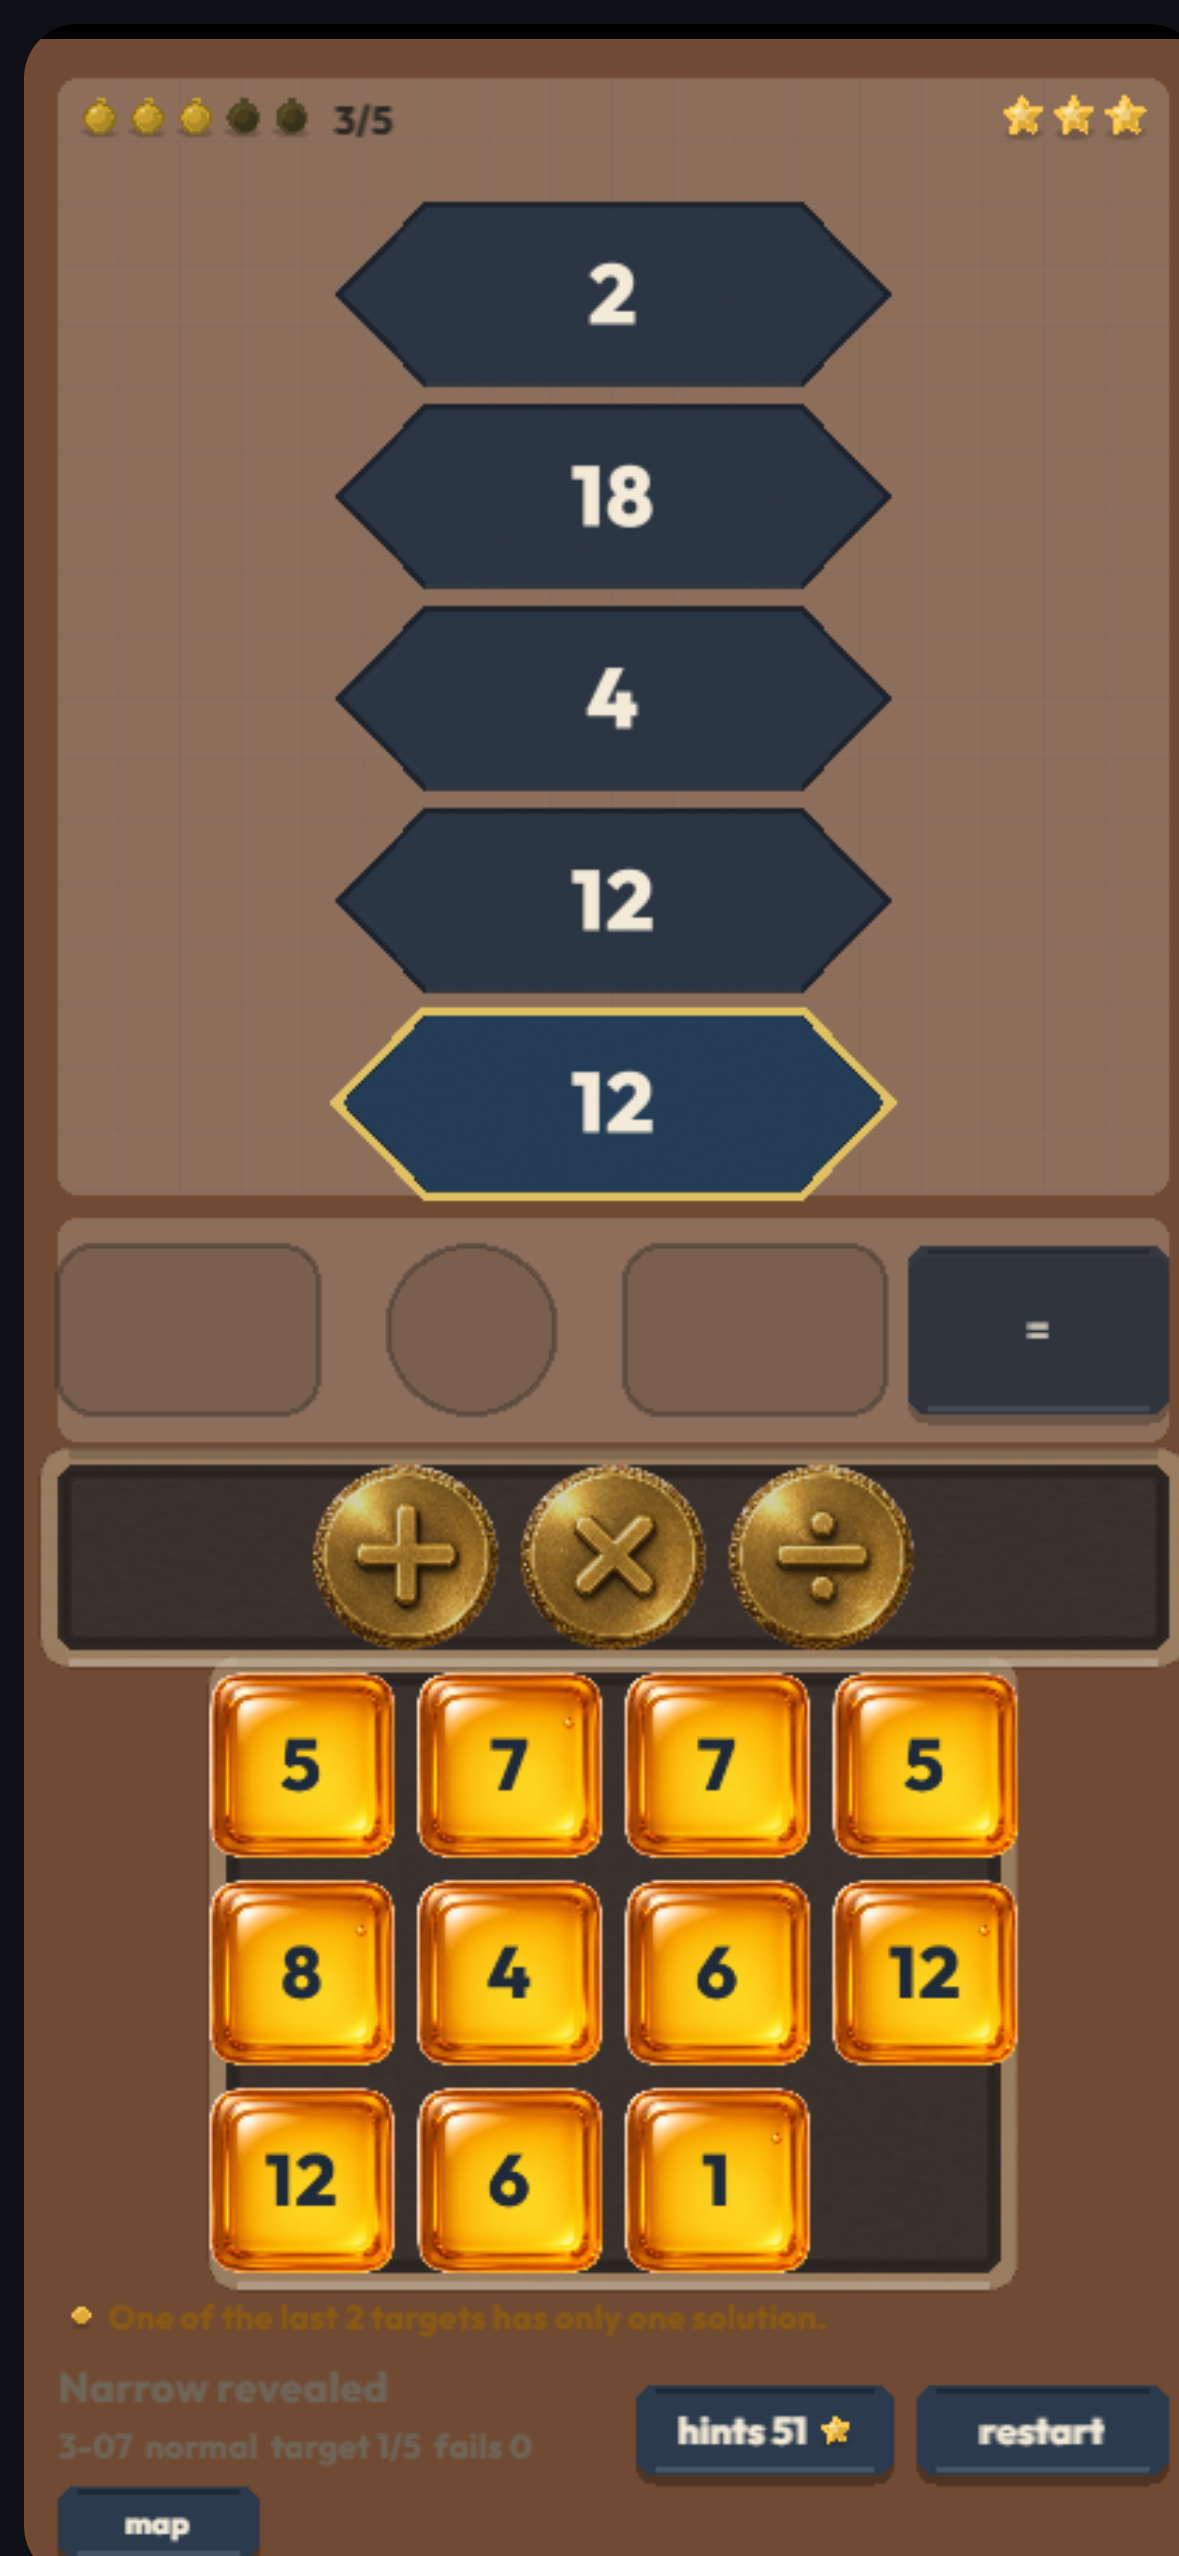
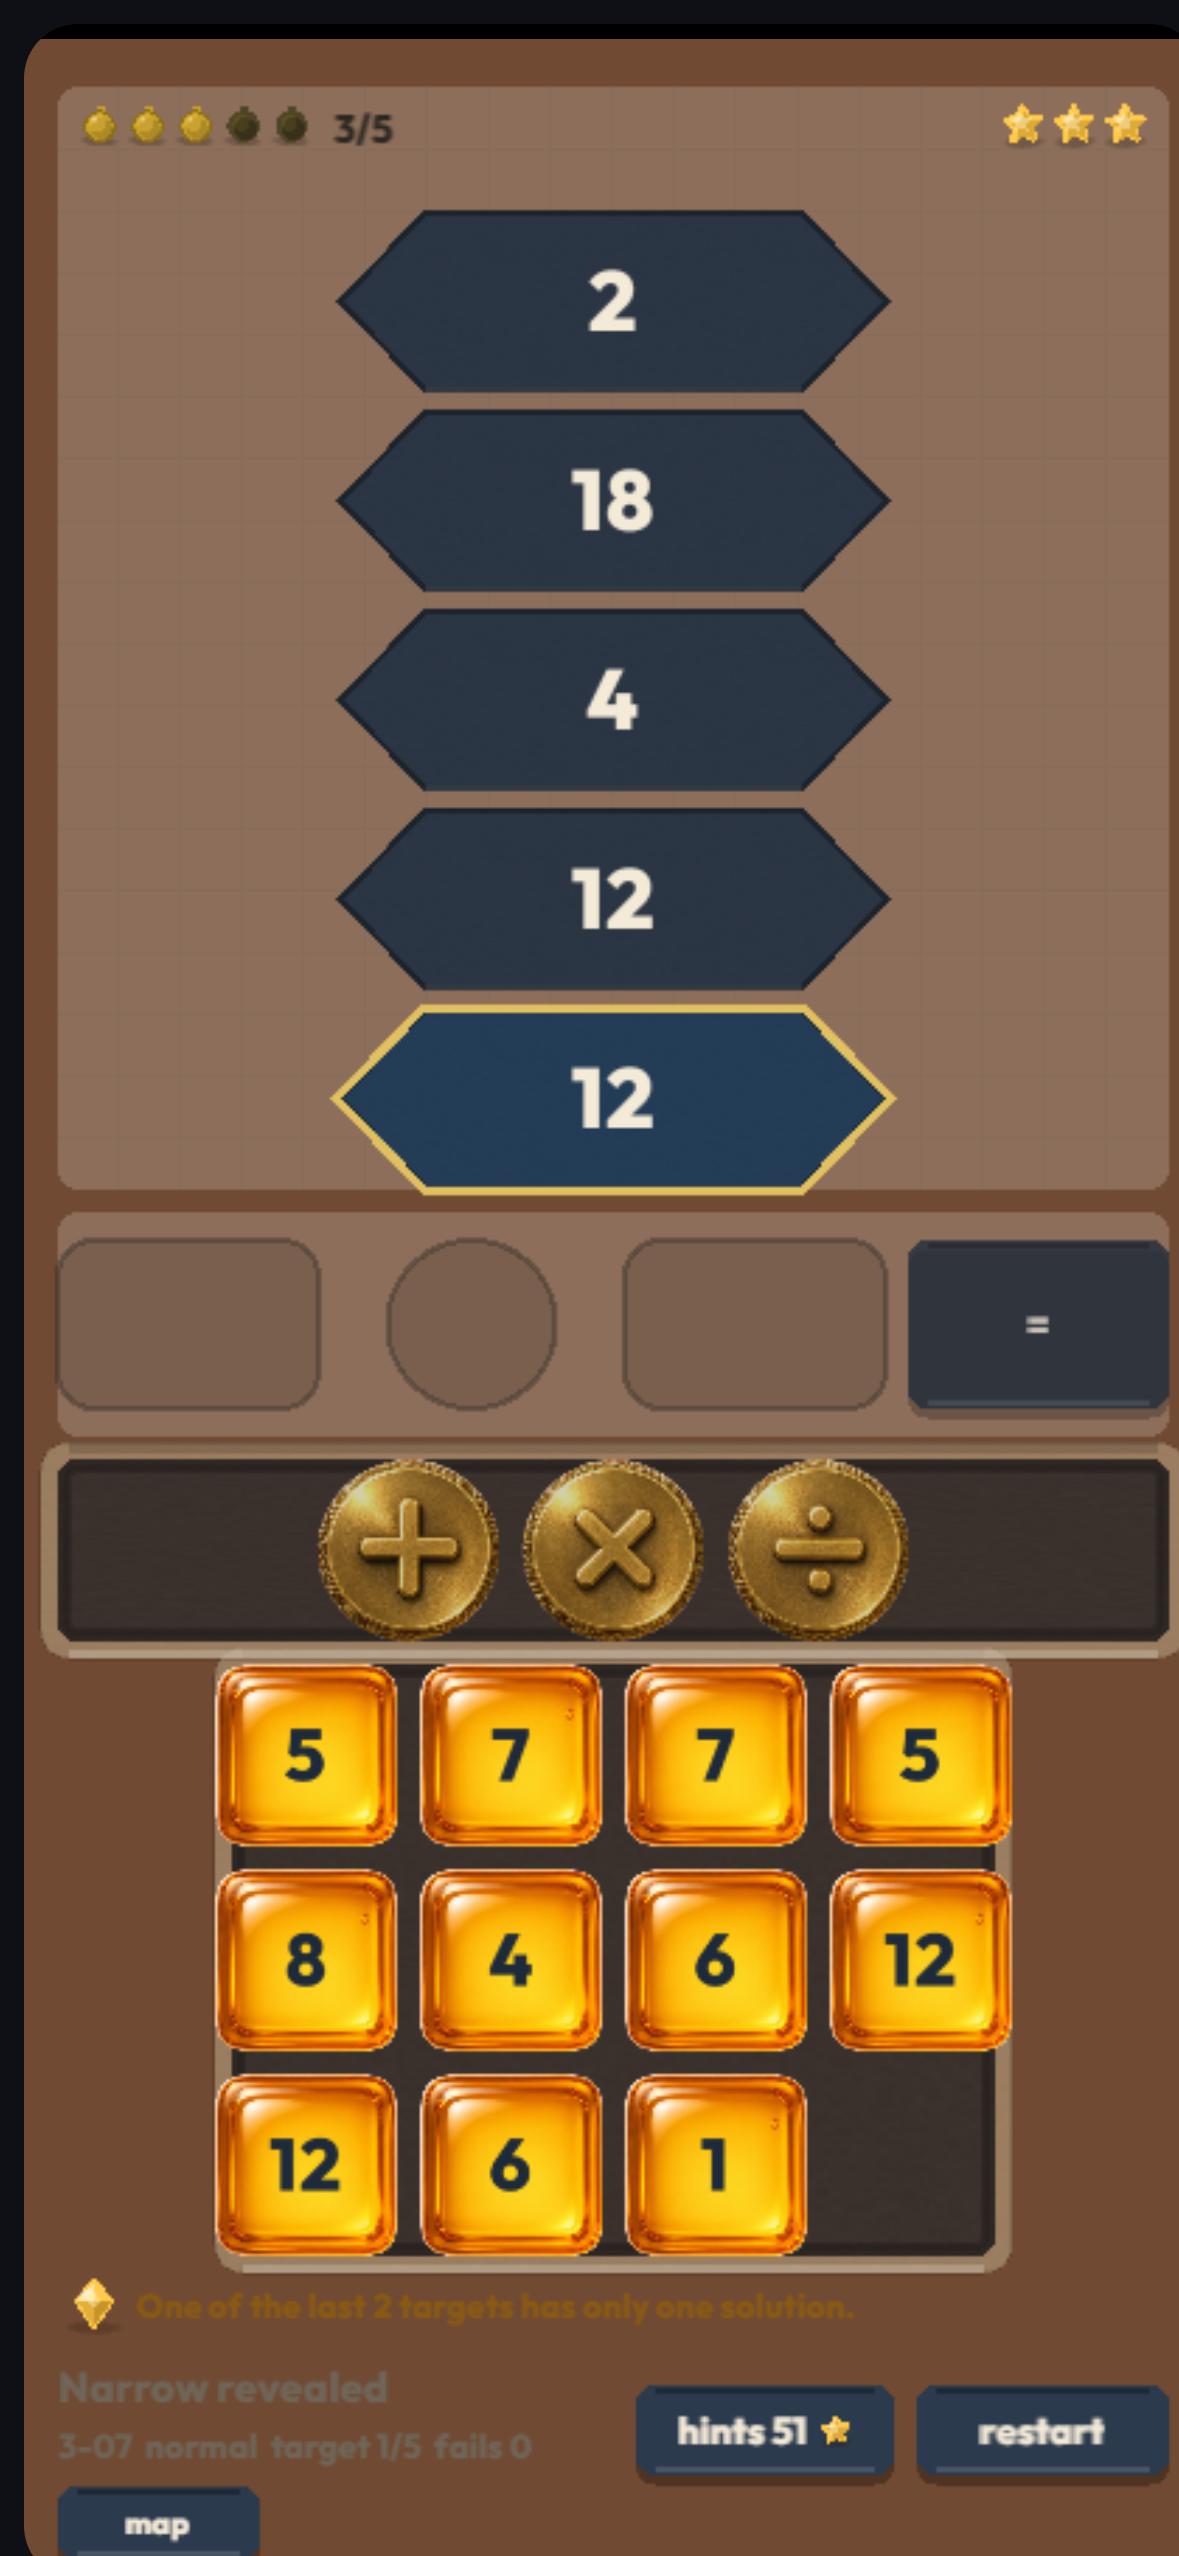
feat(art): cut the hint mark as a faceted gem, and measure the light
The mark was a flat gold lozenge. It HAD a contactShadow() call and a
specular() call, which is why reading the source would have said it complied
with §3 — but both were sized as fractions of a 10px emblem, so the
highlight was 0.8px and the shadow 2.5px and neither painted anything. The
shading was also drawn inside a container rotated 45 degrees, so the
"lower-right" dark side rotated with it and the light was not coming from
the upper left at all.

It is now a cut stone: four facets meeting at a centre above the middle,
the upper-left plane facing the source and the lower-right facing away, one
specular in the bright facet, and a contact shadow. No facet outlines — §3
has none and a real stone has none; the edge is the tonal step between two
planes. Facets share the silhouette's inset vertices, because drawn to the
full ones they poked out past the stroked body and put a nub on the point.

tools/emblem-light.mjs measures this on the shipped pixels rather than
trusting the draw code, over each object's OWN pixels: a hand-placed box
that misses by a few pixels fills the quadrants with background and reported
a visibly shaded star as 3.3% flat. Masked properly, upper-left against
lower-right:

  pocket-watch 14px  +19.3%   specular 58.1 over median at 5.3% area
  star         15px  +17.9%   specular 43.6 at 8.5%
  hint gem     18px  +17.7%   specular 58.6 at 15.0%

All three carry a contact shadow; the gem's is 13% darker than clean
[…]

diff --git a/src/renderer/emblems.ts b/src/renderer/emblems.ts
@@ -253,33 +253,81 @@ export function pocketWatch(size: number, state: "full" | "spent" = "full"): Con
  */
 export function hintDiamond(size: number): Container {
   const emblem = new Container();
-  const r = size / 2;
+  const w = size * 0.4;
+  const h = size * 0.5;
+
+  /*
+   * A CUT STONE, NOT A RHOMBUS.
+   *
+   * The first two versions were a rotated rounded square with one flat gold
+   * fill. It had a contact shadow and a specular on paper, but both were
+   * specified as fractions of a 10px emblem — a 0.8px highlight and a 2.5px
+   * shadow — so at the size it actually drew there was nothing to see, and it
+   * read as a flat gold lozenge. Worse, the shading was drawn INSIDE a
+   * container rotated 45 degrees, so the "lower-right" dark side rotated with
+   * it and the light was not coming from the upper left at all.
+   *
+   * A gem reads as cut because adjacent facets catch the one light source at
+   * different angles. So the stone is built from four facets meeting at a
+   * centre above the middle, and their tones are the whole effect — no facet
+   * outlines, because §3 has none and a real stone has none either: the edge IS
+   * the tonal step between two planes.
+   */
+  const cx = 0;
+  const cy = -h * 0.12;
+  const facet = (g: Graphics, ax: number, ay: number, bx: number, by: number, colour: number, alpha = 1) =>
+    g.moveTo(ax, ay).lineTo(bx, by).lineTo(cx, cy).closePath().fill({ color: colour, alpha });
 
   const shadow = new Graphics();
-  contactShadow(shadow, 0, r * 0.86, r * 0.5, r * 0.16);
+  contactShadow(shadow, 0, h * 0.94, w * 0.86, h * 0.16);
   emblem.addChild(shadow);
 
-  const face = new Container();
-  const g = new Graphics();
   /*
-   * The corner radius is the whole design here. At 0.26 of the side the four
-   * points rounded away and nine pixels of gold read as a dot, not a diamond —
-   * "rounded everything" (§3) has to stop short of erasing the silhouette it is
-   * softening. 0.13 keeps the points while still tumbling the edges.
+   * ONE SET OF VERTICES for the silhouette and for the facets.
+   *
+   * The stroked body is inset by half the pen so the round join does not grow
+   * the stone. The facets have to use the SAME inset points: drawn to the full
+   * vertices they poked out past the silhouette, which put a nub on the bottom
+   * point and bumps on both shoulders.
    */
-  const side = r * 1.24;
-  g.roundRect(-side / 2, -side / 2, side, side, side * 0.13).fill({ color: GOLD });
-  g.roundRect(-side / 2 + side * 0.12, -side / 2 + side * 0.2, side * 0.88, side * 0.8, side * 0.12).fill({
-    color: GOLD_DEEP,
-    alpha: 0.4,
-  });
-  face.addChild(g);
-  face.rotation = Math.PI / 4;
-  emblem.addChild(face);
+  const round = size * 0.1;
+  const px = w - round / 2;
+  const py = h - round / 2;
 
+  const g = new Graphics();
+  const body = (gr: Graphics): Graphics =>
+    gr.moveTo(0, -py).lineTo(px, cy).lineTo(0, py).lineTo(-px, cy).closePath();
+  body(g).fill({ color: GOLD });
+  body(g).stroke({ width: round, color: GOLD, join: "round", cap: "round" });
+  emblem.addChild(g);
+
+  // The four facets, lit from the upper left: the upper-left plane faces the
+  // source and the lower-right plane faces away from it.
+  const f = new Graphics();
+  facet(f, 0, -py, -px, cy, GOLD_LIT, 0.85);
+  facet(f, 0, -py, px, cy, GOLD, 1);
+  facet(f, -px, cy, 0, py, GOLD_DEEP, 0.35);
+  facet(f, px, cy, 0, py, GOLD_DEEP, 0.7);
+  emblem.addChild(f);
+
+  // The table: the flat top of the cut, catching the most light of any plane.
+  const table = new Graphics();
+  table
+    .moveTo(0, -h * 0.52)
+    .lineTo(w * 0.34, cy * 0.6)
+    .lineTo(0, h * 0.1)
+    .lineTo(-w * 0.34, cy * 0.6)
+    .closePath()
+    .fill({ color: GOLD_LIT, alpha: 0.45 });
+  emblem.addChild(table);
+
+  // One specular, in the upper-left facet, sized off the stone rather than off
+  // a fraction that vanishes when the emblem is small.
   const hi = new Graphics();
-  specular(hi, -r * 0.18, -r * 0.26, r * 0.16);
+  specular(hi, -w * 0.42, -h * 0.42, Math.max(1.2, size * 0.11));
   emblem.addChild(hi);
+
+  emblem.rotation = 0.03;
   return emblem;
 }
 

diff --git a/src/renderer/layout.test.ts b/src/renderer/layout.test.ts
@@ -145,11 +145,44 @@ describe("the stack fits and sits low (§9.1)", () => {
     }
   });
 
-  it("pins the shipped 4-01 casual worst case to both 12px anchors", () => {
+  it("pins the shipped 4-01 casual worst case, bottom-anchored at 888", () => {
+    /*
+     * Moved 2026-08-22: token 59 -> 58 and lane.y 12 -> 16, because
+     * HINT_LINE_H went 16 -> 22 so the hint mark could read as a cut gem rather
+     * than a gold dot. On the densest board those 6px come out of the pool.
+     *
+     * THE TEST USED TO CLAIM "both 12px anchors" AND THAT WAS NEVER TRUE. The
+     * bottom edge is anchored at 888 for every board, which is §9.1's "sits
+     * low" and is what the suite should defend. The top was 12 only for THIS
+     * configuration and only by luck: the stack is bottom-anchored, token size
+     * is quantised to whole pixels, and whatever does not divide evenly falls
+     * out as slack at the top. At the previously shipped HINT_LINE_H the same
+     * board with three hints already sat at 20, not 12 — so the "anchor" the
+     * name promised did not exist even before this change.
+     *
+     * Measured across 16..22, the bottom stayed 888 at every value and only the
+     * top slack moved. So the bottom is asserted as an invariant, and the top
+     * is pinned as an observation with its reason attached.
+     */
     const layout = bands({ targets: 6, tiles: 14, hints: 1, operators: 5 });
-    expect(layout.grid.size).toBe(59);
-    expect(layout.lane.y).toBe(12);
+    expect(layout.grid.size).toBe(58);
     expect(layout.status.y + layout.status.height).toBe(888);
+    // Incidental, not an anchor — see above.
+    expect(layout.lane.y).toBe(16);
+  });
+
+  it("bottom-anchors every board at 888, whatever the hint count (§9.1)", () => {
+    // The invariant the test above was mistaken for. Cheap, and it would have
+    // caught the hint-row change being judged against the wrong property.
+    for (const board of BOARDS) {
+      for (const hints of [0, 1, 3]) {
+        const layout = bands({ ...board, hints });
+        expect(
+          layout.status.y + layout.status.height,
+          `board ${board.targets}/${board.tiles} with ${hints} hints`,
+        ).toBe(888);
+      }
+    }
   });
 
   it("keeps every operator inside its band across the complete matrix", () => {

diff --git a/src/renderer/renderer.ts b/src/renderer/renderer.ts
@@ -6,6 +6,7 @@ import {
   BACKDROP,
   DESIGN,
   DIM,
+  HINT_LINE_H,
   PALETTE,
   TRAY_ALPHA,
   type Bands,
@@ -1401,12 +1402,13 @@ export class Renderer {
     // Their own band, sized to how many are owned, so they neither overlap the
     // pool on a small board nor reserve a strip nobody is using.
     s.hints.forEach((hint, i) => {
-      const mark = hintDiamond(10);
-      mark.position.set(board.hints.x + 4 + 5, board.hints.y + i * 16 + 7);
+      const gem = 18;
+      const mark = hintDiamond(gem);
+      mark.position.set(board.hints.x + 4 + gem / 2, board.hints.y + i * HINT_LINE_H + 9);
       this.root.addChild(mark);
 
       const label = this.text(hint.text, 12, PALETTE.highlightInk);
-      label.position.set(board.hints.x + 4 + 14, board.hints.y + i * 16);
+      label.position.set(board.hints.x + 4 + gem + 6, board.hints.y + i * HINT_LINE_H + 2);
       this.root.addChild(label);
     });
 

diff --git a/src/renderer/layout.ts b/src/renderer/layout.ts
@@ -183,7 +183,15 @@ const TARGET_GAP = 6;
 const POOL_MAX_PER_ROW = 6;
 const EQUATION_ROW_H = 60;
 const EQUATION_PAD = 10;
-const HINT_LINE_H = 16;
+/**
+ * One hint line. Exported because the renderer draws the rows and was carrying
+ * its own copy of the number — two places to change, one of which would be
+ * forgotten.
+ *
+ * 22 rather than 16: the line is led by a cut-gem mark (emblems.ts) which needs
+ * to read as a faceted stone, and facets need pixels.
+ */
+export const HINT_LINE_H = 22;
 const STATUS_H = 60;
 /** Room for the lives/stars HUD along the top of the lane. */
 const LANE_HEADER = 44;
